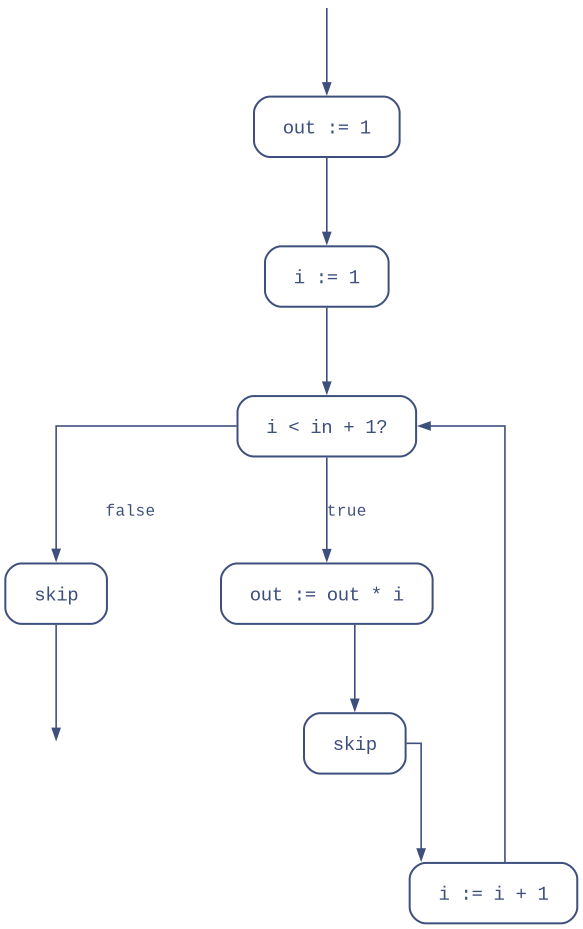
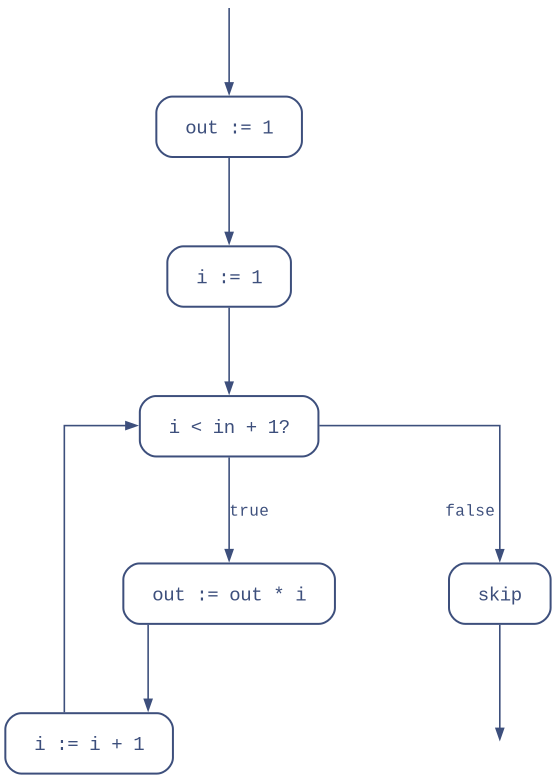
feat: add CFG minimisation

diff --git a/src/modules/control_flow_graph.rs b/src/modules/control_flow_graph.rs
@@ -1,5 +1,7 @@
 use std::collections::HashMap;
 
+use chumsky::container::Container;
+
 use crate::{
     ast::{
         boolean_exp::BoolExpr,
@@ -29,6 +31,18 @@ pub enum Edge {
 pub struct Node {
     pub code: Code,
     pub next: Edge,
+}
+
+impl Node {
+    pub fn is_removable(&self) -> bool {
+        match (&self.code, &self.next) {
+            (Code::Skip, Edge::Bottom) => false,
+            (Code::Skip, Edge::Next(_)) => true,
+            // NOTE: this case should be impossible
+            (Code::Skip, Edge::Branch(_, _)) => false,
+            (_, _) => false,
+        }
+    }
 }
 
 #[derive(Debug, Clone)]
@@ -73,7 +87,6 @@ impl ControlFlowGraph {
 
     fn sub_build(&mut self, cmd: &AtomCmd) -> (NodeId, NodeId) {
         match cmd {
-            // BUG: blocks can create problem with loop and conditional branch
             AtomCmd::Block(cmd) => self.build(cmd),
             AtomCmd::Assign(var, expr) => {
                 let id = self.add_node(Code::Assign(var.clone(), expr.clone()), Edge::Bottom);
@@ -125,6 +138,43 @@ impl ControlFlowGraph {
         }
     }
 
+    /// Remove all the superfluous skip from the CFG
+    /// preserving the CFG definition
+    pub fn minimise(&mut self) {
+        // NOTE:
+        // Helper function used to get the real successor of a node
+        let successor = |nodes: &HashMap<NodeId, Node>, mut id: NodeId| {
+            while let Some(node) = nodes.get(&id) {
+                if node.is_removable() {
+                    if let Edge::Next(next) = node.next {
+                        id = next;
+                    } else {
+                        break;
+                    }
+                } else {
+                    break;
+                }
+            }
+            id
+        };
+
+        let ids: Vec<NodeId> = self.nodes.keys().copied().collect();
+        for id in ids {
+            let next_new = match self.nodes[&id].next.clone() {
+                Edge::Bottom => Edge::Bottom,
+                Edge::Next(succ) => Edge::Next(successor(&self.nodes, succ)),
+                Edge::Branch(t, f) => {
+                    Edge::Branch(successor(&self.nodes, t), successor(&self.nodes, f))
+                }
+            };
+            self.nodes.get_mut(&id).unwrap().next = next_new;
+        }
+
+        // sweep all the removable nodes
+        self.nodes
+            .retain(|id, node| !node.is_removable() || *id == self.entry || *id == self.r#final);
+    }
+
     pub fn to_dot(&self) -> String {
         let mut out = String::new();
 
@@ -169,6 +219,7 @@ impl From<&Program> for ControlFlowGraph {
     fn from(value: &Program) -> Self {
         let mut cfg = ControlFlowGraph::new();
         let (entry, r#final) = cfg.build(&value.body);
+        cfg.minimise();
         cfg.entry = entry;
         cfg.r#final = r#final;
         cfg
